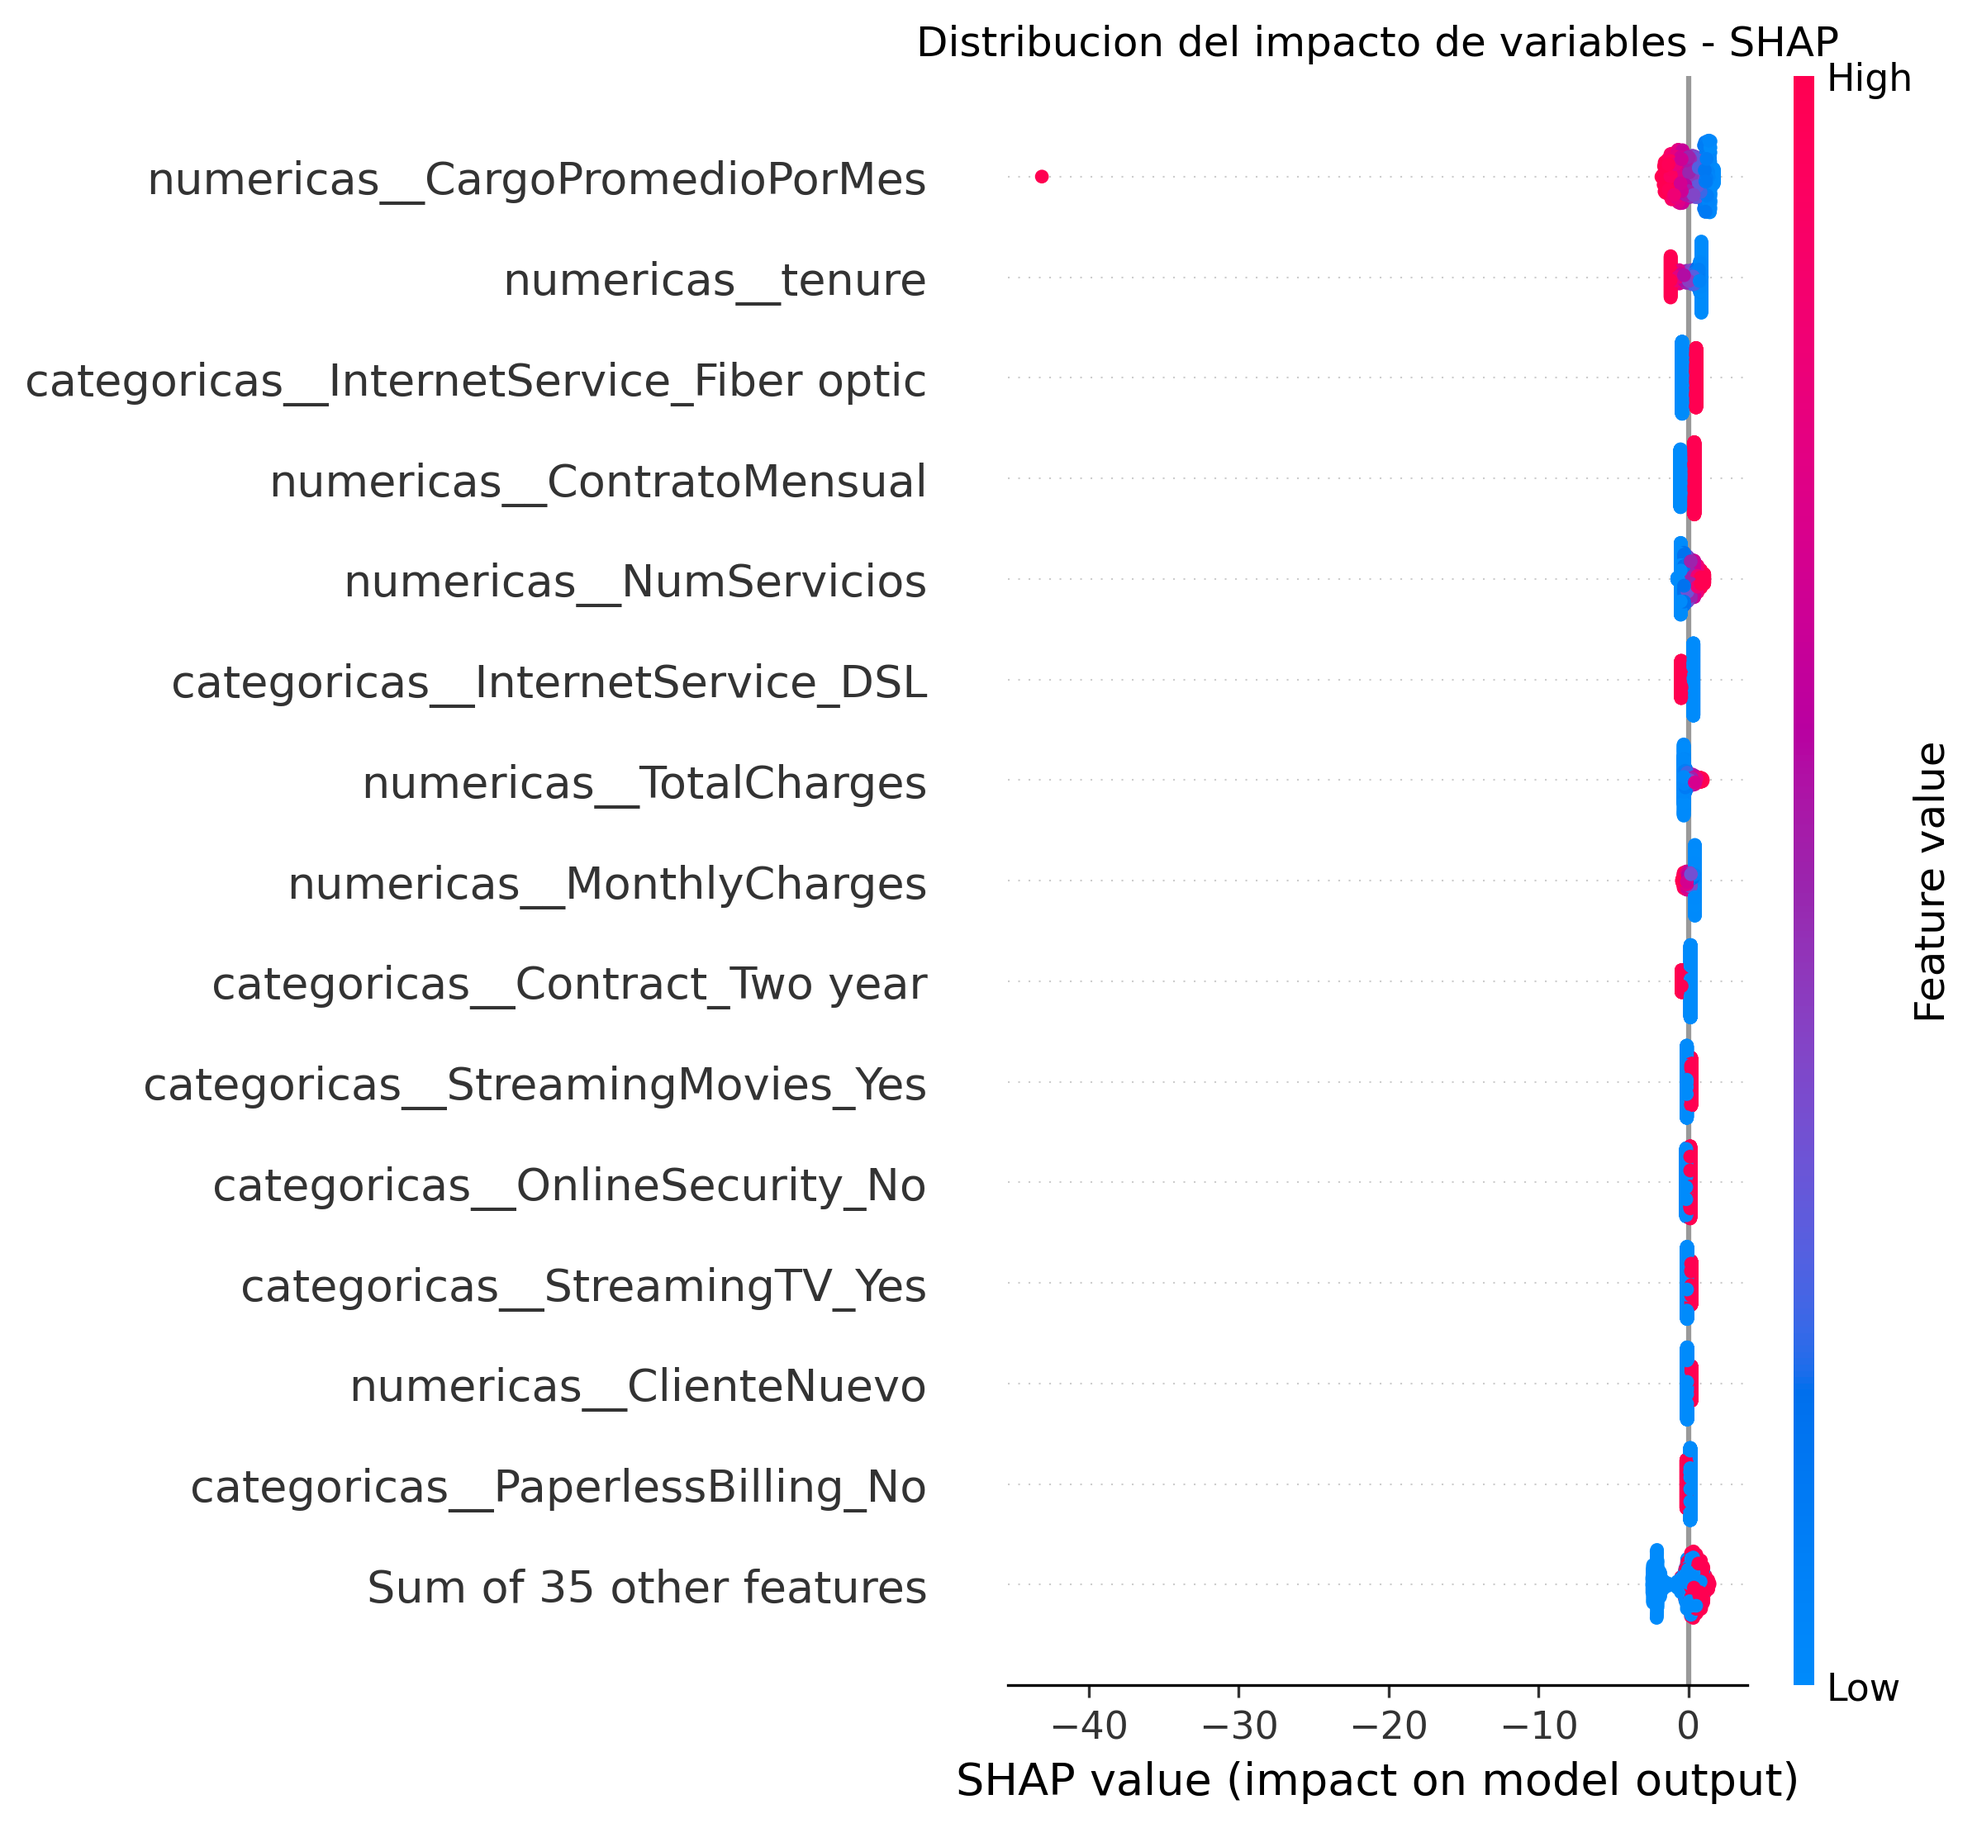
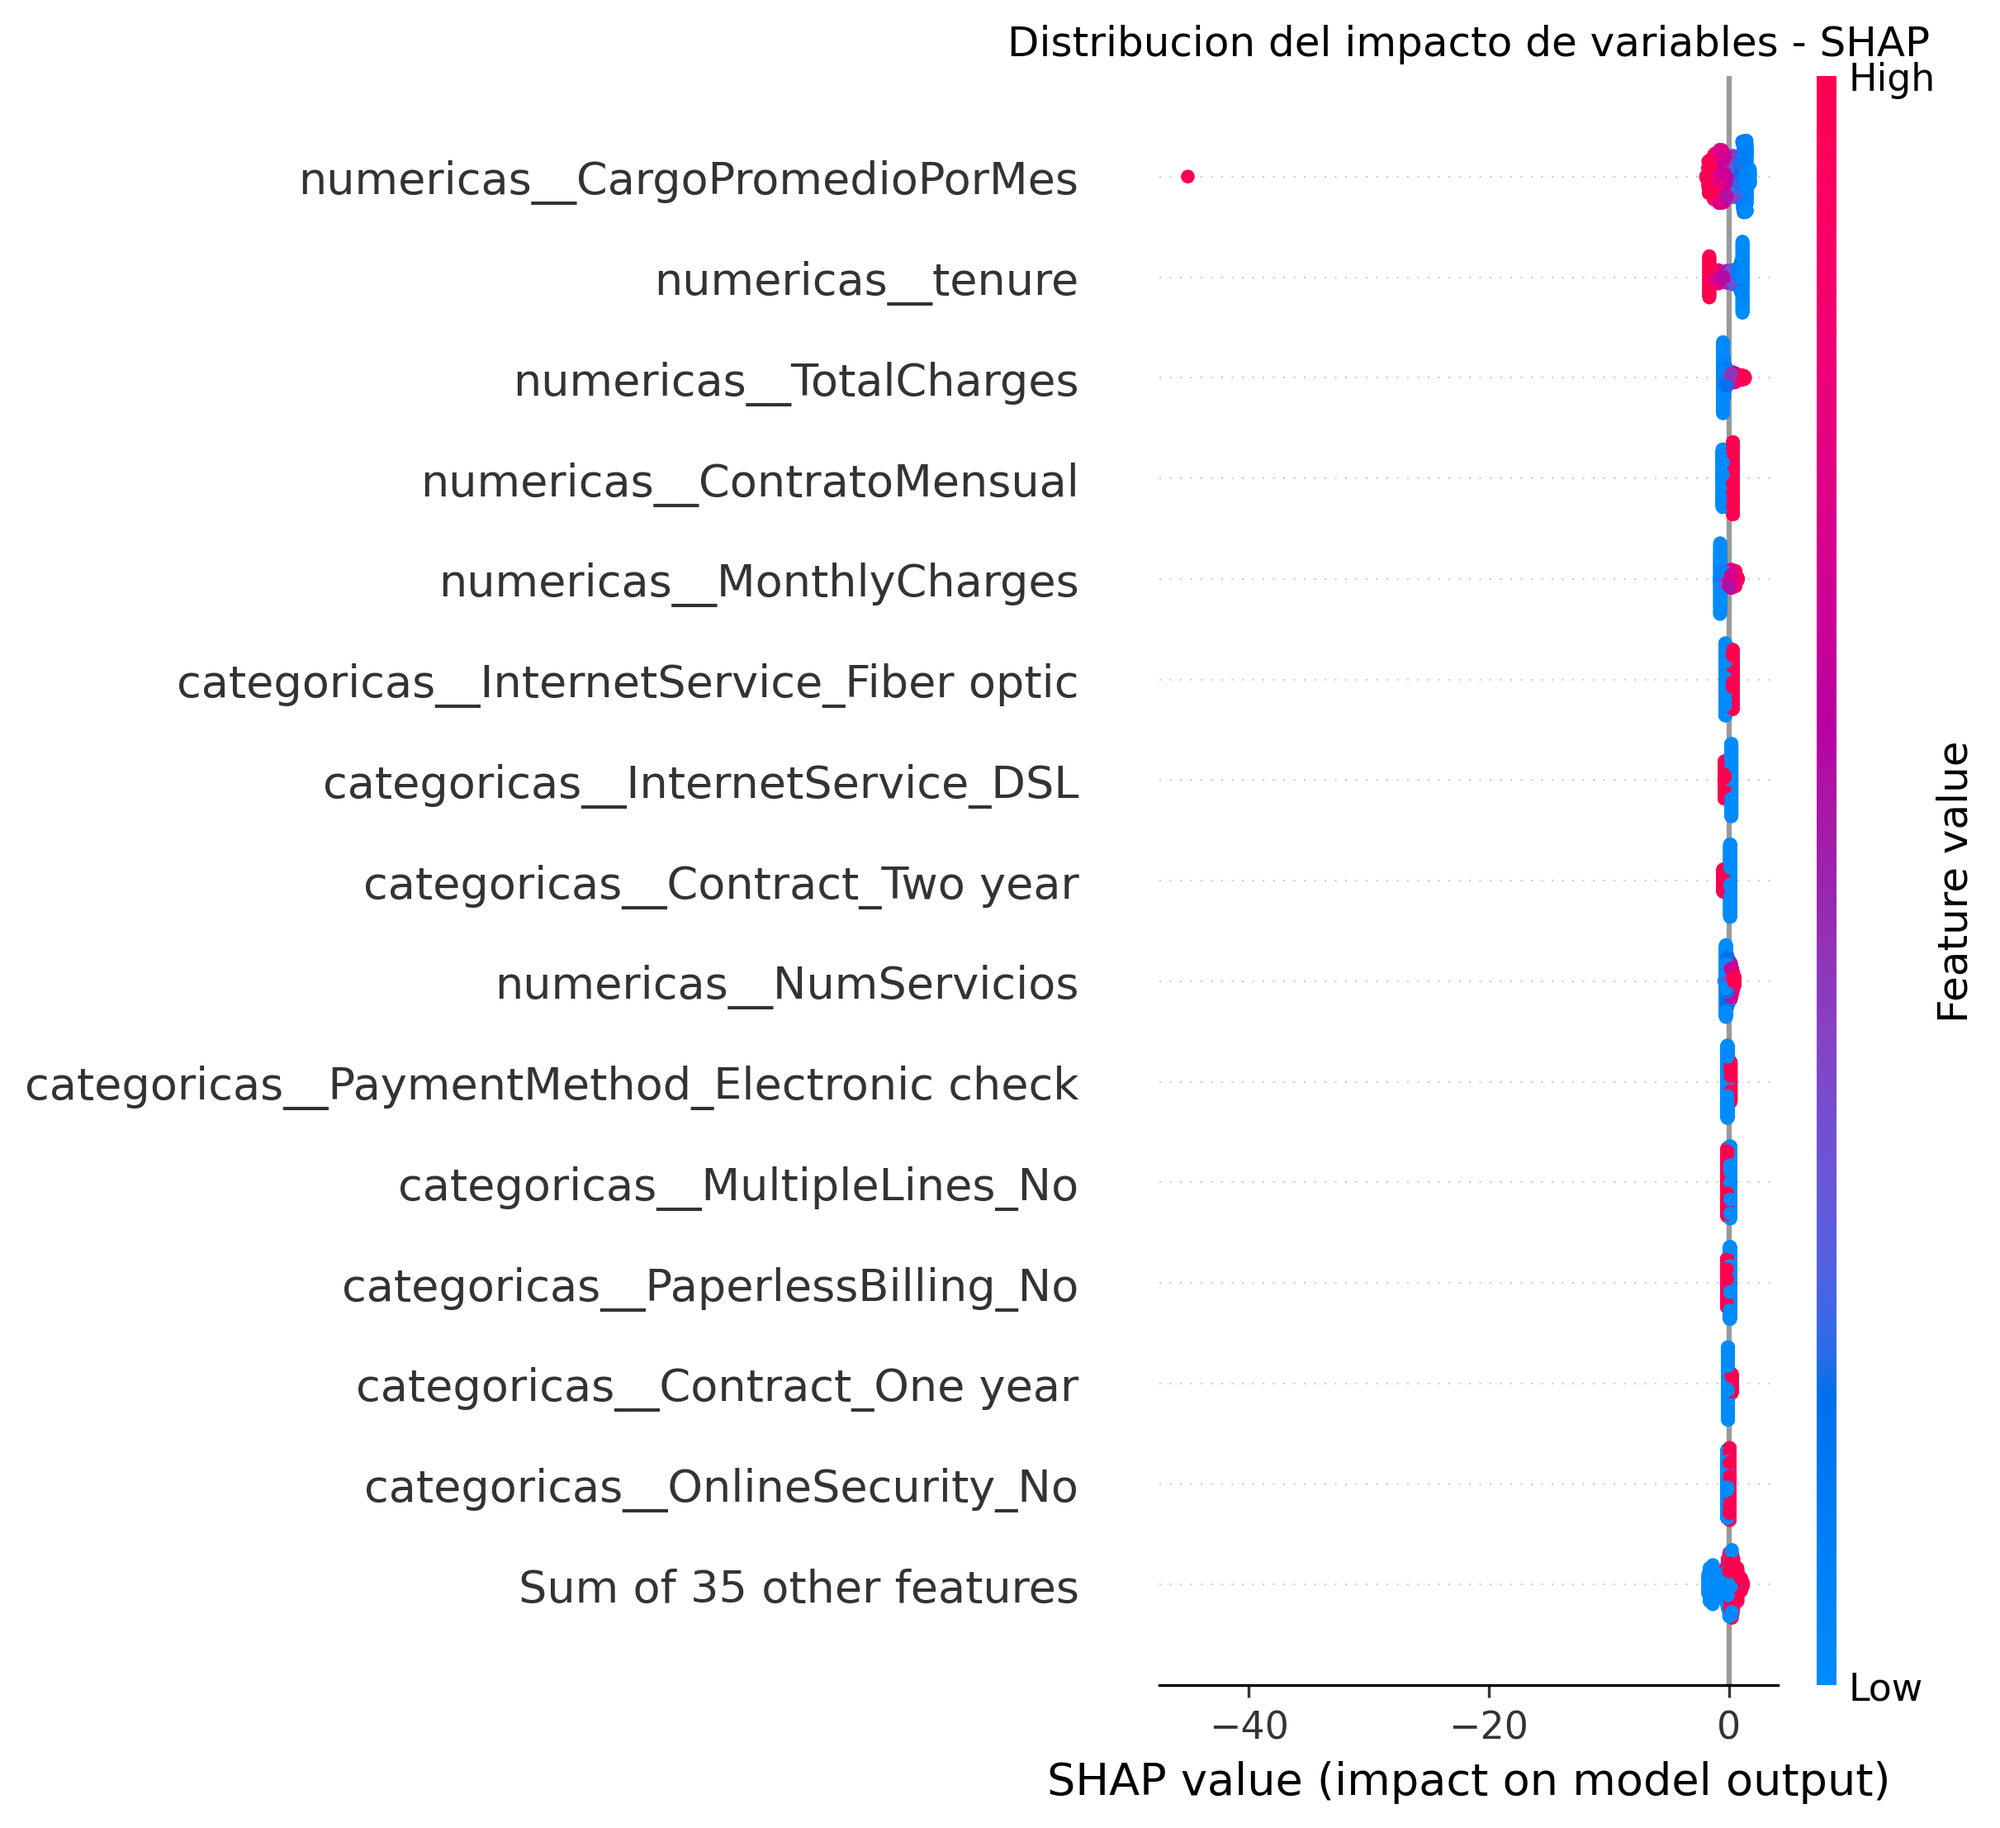
Add SHAP visualizations to Flask app

diff --git a/app/templates/shap.html b/app/templates/shap.html
@@ -1,0 +1,58 @@
+{% extends "base.html" %}
+
+{% block content %}
+<section class="page-header">
+  <h1>Interpretabilidad con SHAP</h1>
+  <p>Graficas generadas para explicar que variables influyen mas en la prediccion de abandono.</p>
+</section>
+
+<section class="panel shap-intro">
+  <h2>¿Que muestra SHAP?</h2>
+  <p>
+    SHAP permite interpretar el modelo indicando cuanto aporta cada variable a la prediccion.
+    Valores positivos aumentan el riesgo de abandono y valores negativos reducen ese riesgo.
+  </p>
+</section>
+
+<section class="shap-grid">
+  <article class="panel shap-card">
+    <h2>Importancia global de variables</h2>
+    <p>Esta grafica resume cuales variables tienen mayor impacto promedio en las predicciones del modelo.</p>
+    <img src="{{ url_for('archivos_resultados', filename=grafica_importancia) }}" alt="Importancia global SHAP">
+  </article>
+
+  <article class="panel shap-card">
+    <h2>Grafica beeswarm</h2>
+    <p>Esta grafica muestra si los valores altos o bajos de cada variable aumentan o reducen el riesgo.</p>
+    <img src="{{ url_for('archivos_resultados', filename=grafica_beeswarm) }}" alt="Grafica beeswarm SHAP">
+  </article>
+</section>
+
+<section class="panel">
+  <h2>Cliente de alto riesgo explicado por SHAP</h2>
+  {% if tabla_cliente %}
+  <div class="table-wrap">
+    <table>
+      <thead>
+        <tr>
+          <th>Variable</th>
+          <th>Valor SHAP</th>
+          <th>Impacto</th>
+        </tr>
+      </thead>
+      <tbody>
+        {% for row in tabla_cliente %}
+        <tr>
+          <td>{{ row.Variable }}</td>
+          <td>{{ "%.4f"|format(row.Valor_SHAP) }}</td>
+          <td>{{ row.Impacto }}</td>
+        </tr>
+        {% endfor %}
+      </tbody>
+    </table>
+  </div>
+  {% else %}
+  <p class="empty">No se encontro la tabla SHAP del cliente de alto riesgo.</p>
+  {% endif %}
+</section>
+{% endblock %}

diff --git a/app/static/css/styles.css b/app/static/css/styles.css
@@ -303,6 +303,33 @@ th {
   margin: 0;
 }
 
+.shap-intro {
+  margin-bottom: 18px;
+}
+
+.shap-intro p,
+.shap-card p {
+  color: var(--muted);
+  margin: 0 0 14px;
+}
+
+.shap-grid {
+  display: grid;
+  grid-template-columns: 1fr;
+  gap: 18px;
+  margin-bottom: 18px;
+}
+
+.shap-card img {
+  display: block;
+  width: 100%;
+  max-height: 620px;
+  object-fit: contain;
+  border: 1px solid var(--line);
+  border-radius: 8px;
+  background: #fff;
+}
+
 @media (max-width: 860px) {
   .topbar,
   .result-layout {

diff --git a/public/css/styles.css b/public/css/styles.css
@@ -303,6 +303,33 @@ th {
   margin: 0;
 }
 
+.shap-intro {
+  margin-bottom: 18px;
+}
+
+.shap-intro p,
+.shap-card p {
+  color: var(--muted);
+  margin: 0 0 14px;
+}
+
+.shap-grid {
+  display: grid;
+  grid-template-columns: 1fr;
+  gap: 18px;
+  margin-bottom: 18px;
+}
+
+.shap-card img {
+  display: block;
+  width: 100%;
+  max-height: 620px;
+  object-fit: contain;
+  border: 1px solid var(--line);
+  border-radius: 8px;
+  background: #fff;
+}
+
 @media (max-width: 860px) {
   .topbar,
   .result-layout {

diff --git a/app/templates/base.html b/app/templates/base.html
@@ -12,6 +12,7 @@
     <nav>
       <a href="{{ url_for('dashboard') }}">Inicio</a>
       <a href="{{ url_for('dashboard') }}">Dashboard</a>
+      <a href="{{ url_for('shap_dashboard') }}">SHAP</a>
       <a href="{{ url_for('nuevo_cliente') }}">Agregar cliente</a>
     </nav>
   </header>

diff --git a/app/app.py b/app/app.py
@@ -304,6 +304,11 @@ def css_publico(filename):
     return send_from_directory(BASE_DIR / "public" / "css", filename)
 
 
+@app.route("/resultados/<path:filename>")
+def archivos_resultados(filename):
+    return send_from_directory(RESULTADOS_DIR, filename)
+
+
 @app.route("/nuevo")
 def nuevo_cliente():
     return render_template("index.html", modelos=MODELOS)
@@ -391,6 +396,22 @@ def metricas():
         conteos={"total": 0, "alto": 0, "medio": 0, "bajo": 0},
         filtros={"modelo": "", "riesgo": "", "contrato": ""},
         modelos=MODELOS,
+    )
+
+
+@app.route("/shap")
+def shap_dashboard():
+    ruta_cliente = RESULTADOS_DIR / "shap_cliente_alto_riesgo.csv"
+    if ruta_cliente.exists():
+        tabla_cliente = pd.read_csv(ruta_cliente).to_dict(orient="records")
+    else:
+        tabla_cliente = []
+
+    return render_template(
+        "shap.html",
+        grafica_importancia="shap_importancia_global.png",
+        grafica_beeswarm="shap_beeswarm.png",
+        tabla_cliente=tabla_cliente,
     )
 
 
